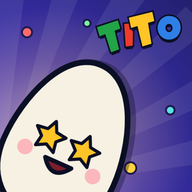
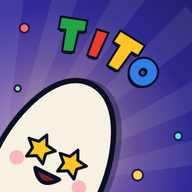
Ícono: TITO más grande, curvo y con el mismo ángulo que el huevo
Claude-Session: https://claude.ai/code/session_01CRPebfG3eDZbV9A48yyWWe

diff --git a/index.html b/index.html
@@ -7,8 +7,8 @@
 <title>unraTITO</title>
 <meta name="description" content="Palabra del día, trivias, sopa de letras y juegos arcade. Gratis y sin descargar nada.">
 <link rel="manifest" href="manifest.webmanifest">
-<link rel="icon" type="image/png" sizes="192x192" href="icon-192.png?v=2">
-<link rel="apple-touch-icon" href="apple-touch-icon.png?v=2">
+<link rel="icon" type="image/png" sizes="192x192" href="icon-192.png?v=3">
+<link rel="apple-touch-icon" href="apple-touch-icon.png?v=3">
 <meta name="mobile-web-app-capable" content="yes">
 <meta name="apple-mobile-web-app-capable" content="yes">
 <meta name="apple-mobile-web-app-status-bar-style" content="black-translucent">

diff --git a/sw.js b/sw.js
@@ -1,4 +1,4 @@
-const V = "unratito-202610290152";
+const V = "unratito-202610290159";
 const CORE = ["./", "index.html", "manifest.webmanifest", "icon-192.png", "icon-512.png", "apple-touch-icon.png"];
 self.addEventListener("install", e => { e.waitUntil(caches.open(V).then(c => c.addAll(CORE)).then(() => self.skipWaiting())); });
 self.addEventListener("activate", e => { e.waitUntil(caches.keys().then(ks => Promise.all(ks.filter(k => k !== V).map(k => caches.delete(k)))).then(() => self.clients.claim())); });
